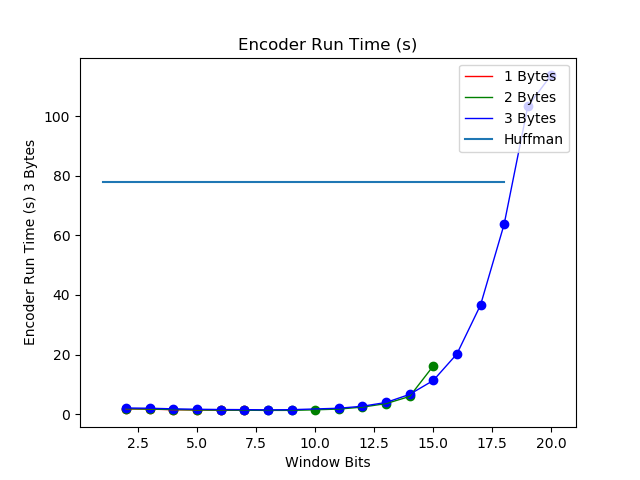
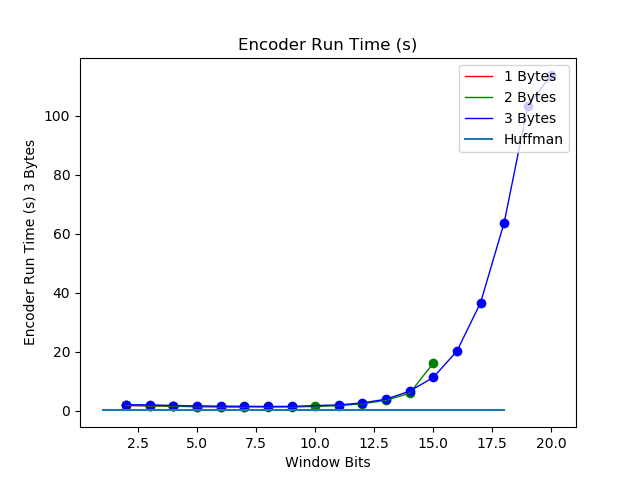
fixed minor detail in graphs

diff --git a/Script_Writing.py b/Script_Writing.py
@@ -1,8 +1,8 @@
 import os
 from matplotlib import pyplot as plt
 import math
-fileNames = ["Chinese", "Color", "coursework", "Large", "Medium", "Small", "video"]
-# fileNames = ["Chinese", "coursework", "Small", "video"]
+# fileNames = ["Chinese", "Color", "coursework", "Large", "Medium", "Small", "video"]
+fileNames = ["Color", "Large", "video"]
 
 
 def openFile(fileName, mode):
@@ -76,7 +76,7 @@ def cleanHuffman(fileName):
     content = open(os.getcwd() + "/log Files/Huffman" + fileName + ".log", "r").read()
     file = open(os.getcwd() + "/Log Files/Huffman" + fileName + ".log", "w")
     data = content.split(",")
-    data[0], data[2] = str(int(float(data[0]))), str(round(float(data[2]), 3))
+    data[0], data[2] = str(float(data[0]) / 1000), str(round(float(data[2]), 3))
     file.write(",".join(data))
 
 
